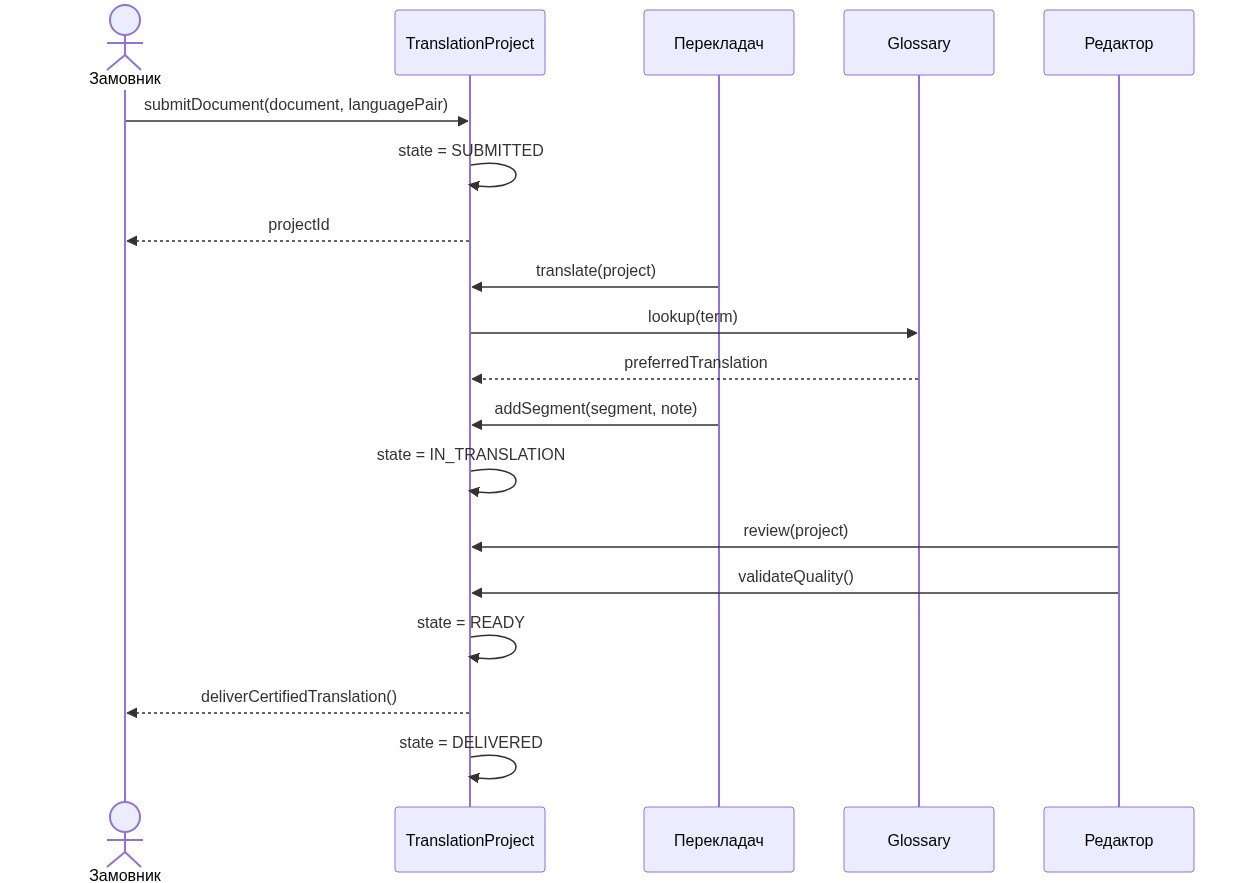
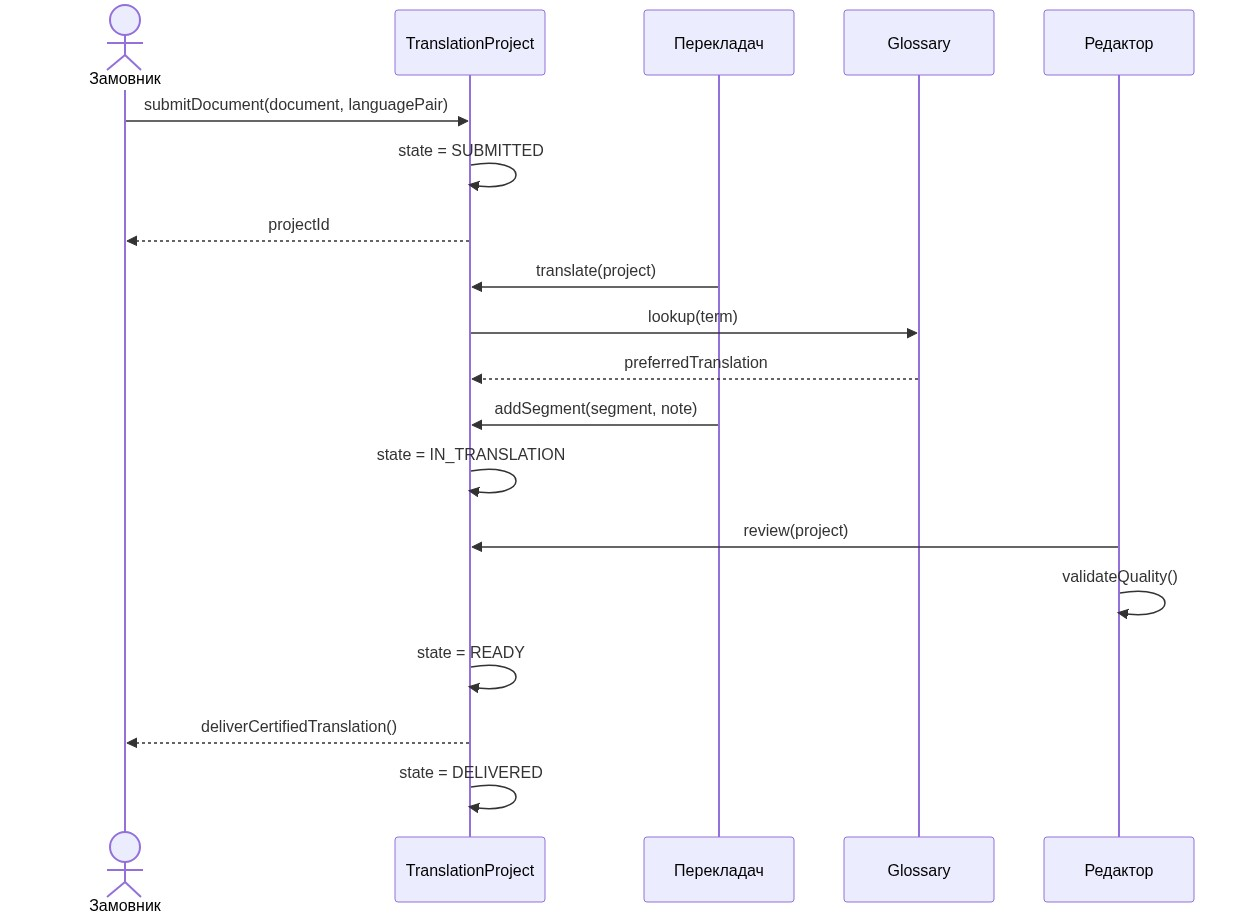
Complete diagram verification and evidence

diff --git a/report/report.md b/report/report.md
@@ -38,17 +38,31 @@
 - State-діаграма містить початковий і кінцевий стани та переходи за бізнес-сценаріями.
 - CRC-картки охоплюють `DocumentActor`, `Customer`, `Translator`, `Editor`, `TranslationProject`, `SourceDocument`, `LanguagePair`, `Glossary` і `TranslationSegment`.
 
-## 4. Перевірка відображення
+## 4. Запити до ШІ та перевірка convergence
 
-У репозиторії збережені исходні коди діаграм. Для перевірки їхнього відображення додані PNG-рендери:
+Для підготовки артефактів застосовано послідовність запитів:
 
-- [Use case (PlantUML)](../report/usecase.png)
-- [Class (Mermaid)](../report/class.png)
-- [Sequence (Mermaid)](../report/sequence.png)
-- [State (Mermaid)](../report/state.png)
+1. `/speckit-constitution` — сформувати правила моделі та SOLID-обмеження.
+2. `/speckit-specify` — описати службу перекладу, акторів, сценарії та критерії приймання.
+3. `/speckit-plan` — спланувати UML, CRC-картки та структуру репозиторію.
+4. `/speckit-tasks` — розкласти роботу на перевірювані завдання.
+5. `/speckit-implement` — створити вихідні файли діаграм, специфікації та CRC-картки.
+6. `/speckit-converge` — звірити узгодженість класів, послідовності, станів і вимог.
 
-У class-діаграмі `displayRole()` показаний як метод `DocumentActor`; його властивість `final` зафіксована в специфікації та цьому звіті, оскільки Mermaid classDiagram не має окремого стандартного маркера для final-методів. Зображення згенеровані з версій файлів, що лежать у `docs/`.
+Фінальний знімок репозиторію після convergence-проходу: [converge-repo.jpg](converge-repo.jpg). Він показує опублікований репозиторій із фінальним набором артефактів. Додатково перевірено валідність `docs/crc.xlsx` командою `unzip -t` і виконано рендер усіх чотирьох діаграм.
 
-## 5. Висновок
+## 5. Рендери та URL-и
+
+Коди перевірені у PlantUML/Mermaid renderer. Публічні посилання на файли:
+
+- [Use case source](https://github.com/tetoraillia/translationservice/blob/main/docs/usecase.puml) · [PNG](https://github.com/tetoraillia/translationservice/blob/main/report/usecase.png)
+- [Class source](https://github.com/tetoraillia/translationservice/blob/main/docs/class.mmd) · [PNG](https://github.com/tetoraillia/translationservice/blob/main/report/class.png)
+- [Sequence source](https://github.com/tetoraillia/translationservice/blob/main/docs/sequence.mmd) · [PNG](https://github.com/tetoraillia/translationservice/blob/main/report/sequence.png)
+- [State source](https://github.com/tetoraillia/translationservice/blob/main/docs/state.mmd) · [PNG](https://github.com/tetoraillia/translationservice/blob/main/report/state.png)
+- [CRC sheet XLSX](https://github.com/tetoraillia/translationservice/blob/main/docs/crc.xlsx)
+
+У class-діаграмі `displayRole()` має сигнатуру `displayRole() final void`; `performTask()` перевизначається конкретними акторами, а `addSegment()` має дві форми.
+
+## 6. Висновок
 
 Побудовано узгоджену UML-модель служби перекладу документів із трьома ролями, чотирма бізнес-сценаріями, абстракцією ролей, інтерфейсом контролю якості, CRC-картками та моделлю життєвого циклу проєкту.

diff --git a/specs/001-translation-service/tasks.md b/specs/001-translation-service/tasks.md
@@ -8,5 +8,5 @@
 - [x] Створити діаграму послідовності.
 - [x] Створити діаграму станів.
 - [x] Створити CRC-картки у форматі XLSX.
-- [ ] Перевірити відображення кодів у PlantUML/Mermaid renderer перед фінальним знімком.
-- [ ] Додати URL-и опублікованих зображень до звіту.
+- [x] Перевірити відображення кодів у PlantUML/Mermaid renderer перед фінальним знімком.
+- [x] Додати URL-и опублікованих зображень до звіту.
